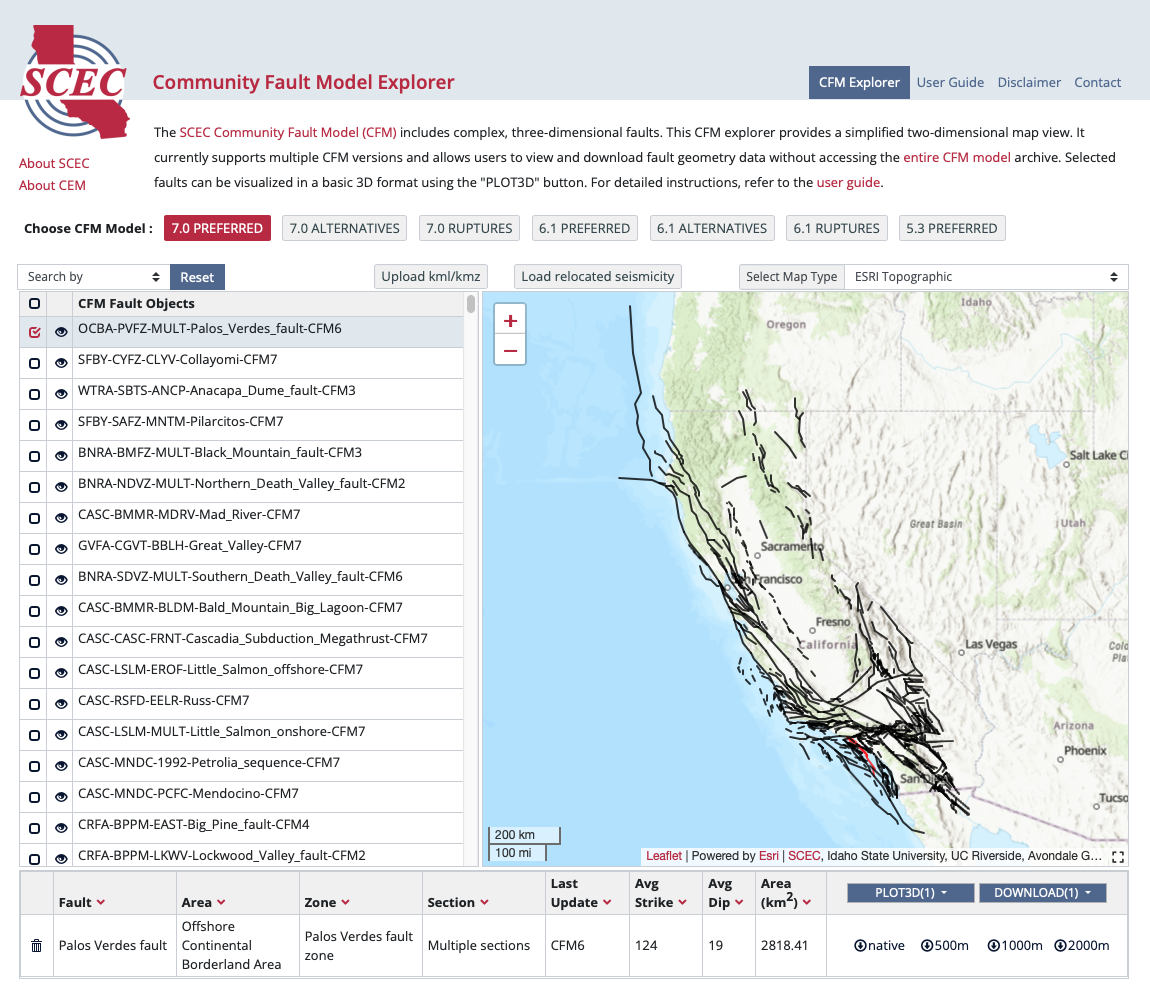
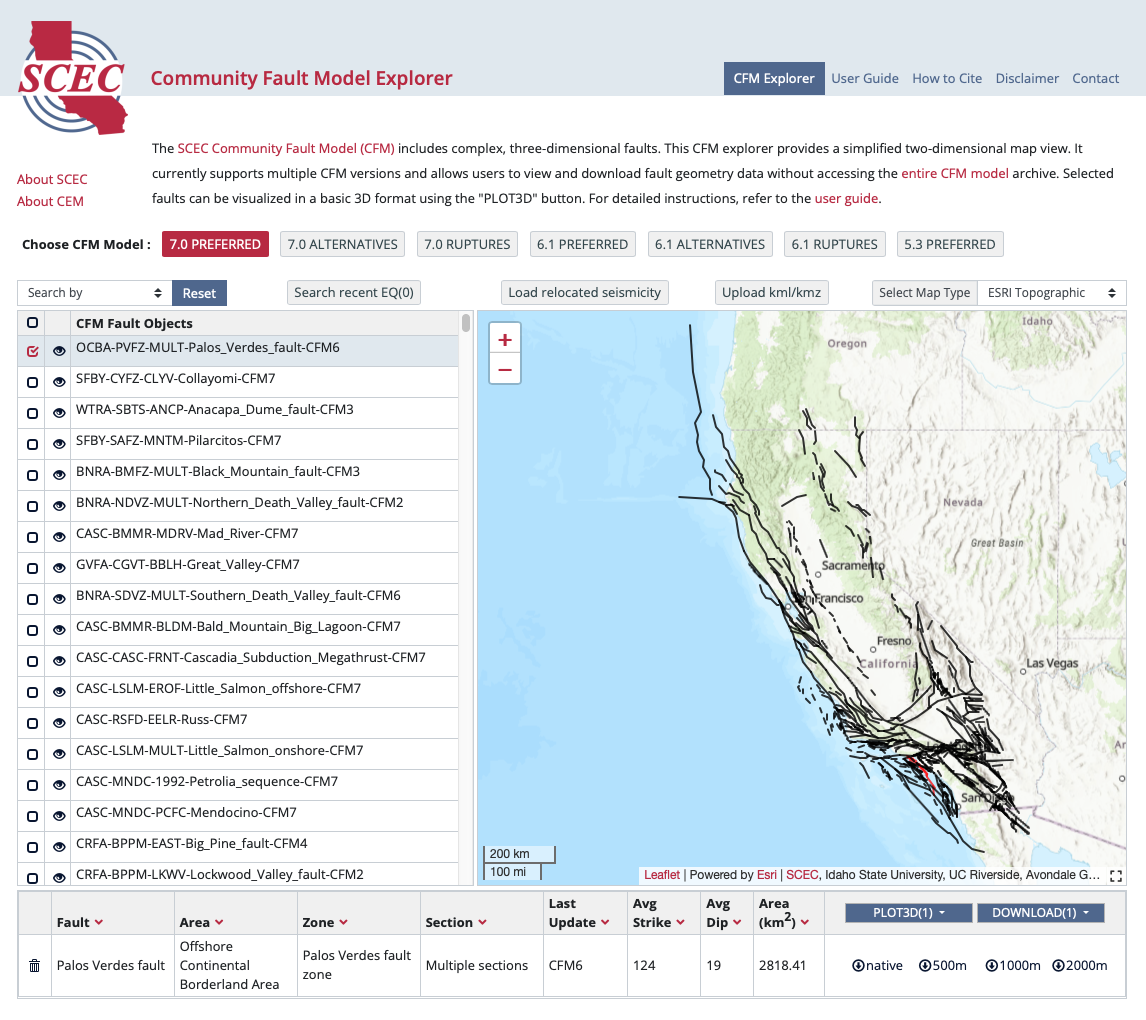
switch explorer png in user guide

Changed region(s): [[0.0, 0.0, 1.0, 0.994], [0.5497, 0.8697, 0.5803, 0.9008], [0.4887, 0.8697, 0.5192, 0.9008]]

diff --git a/web/css/cfm-ui.css b/web/css/cfm-ui.css
@@ -1,4 +1,9 @@
 /* cfm viewer required styles */
+#placeholder-row td {
+  text-align: center;
+  font-style: italic;
+}
+
 .control-btn {
     color:#395057;
     background-color:#f2f2f2;

diff --git a/web/explorer.php b/web/explorer.php
@@ -788,7 +788,6 @@ title="Turn on/off geographic selection on map" onclick="recentEQ_markLatlon()">
                 </thead>
                 <tbody>
                 <tr id="placeholder-row">
-<!--- altered from 11 -->
                     <td colspan="10">Metadata for selected faults will appear here. </td>
                 </tr>
                 </tbody>
